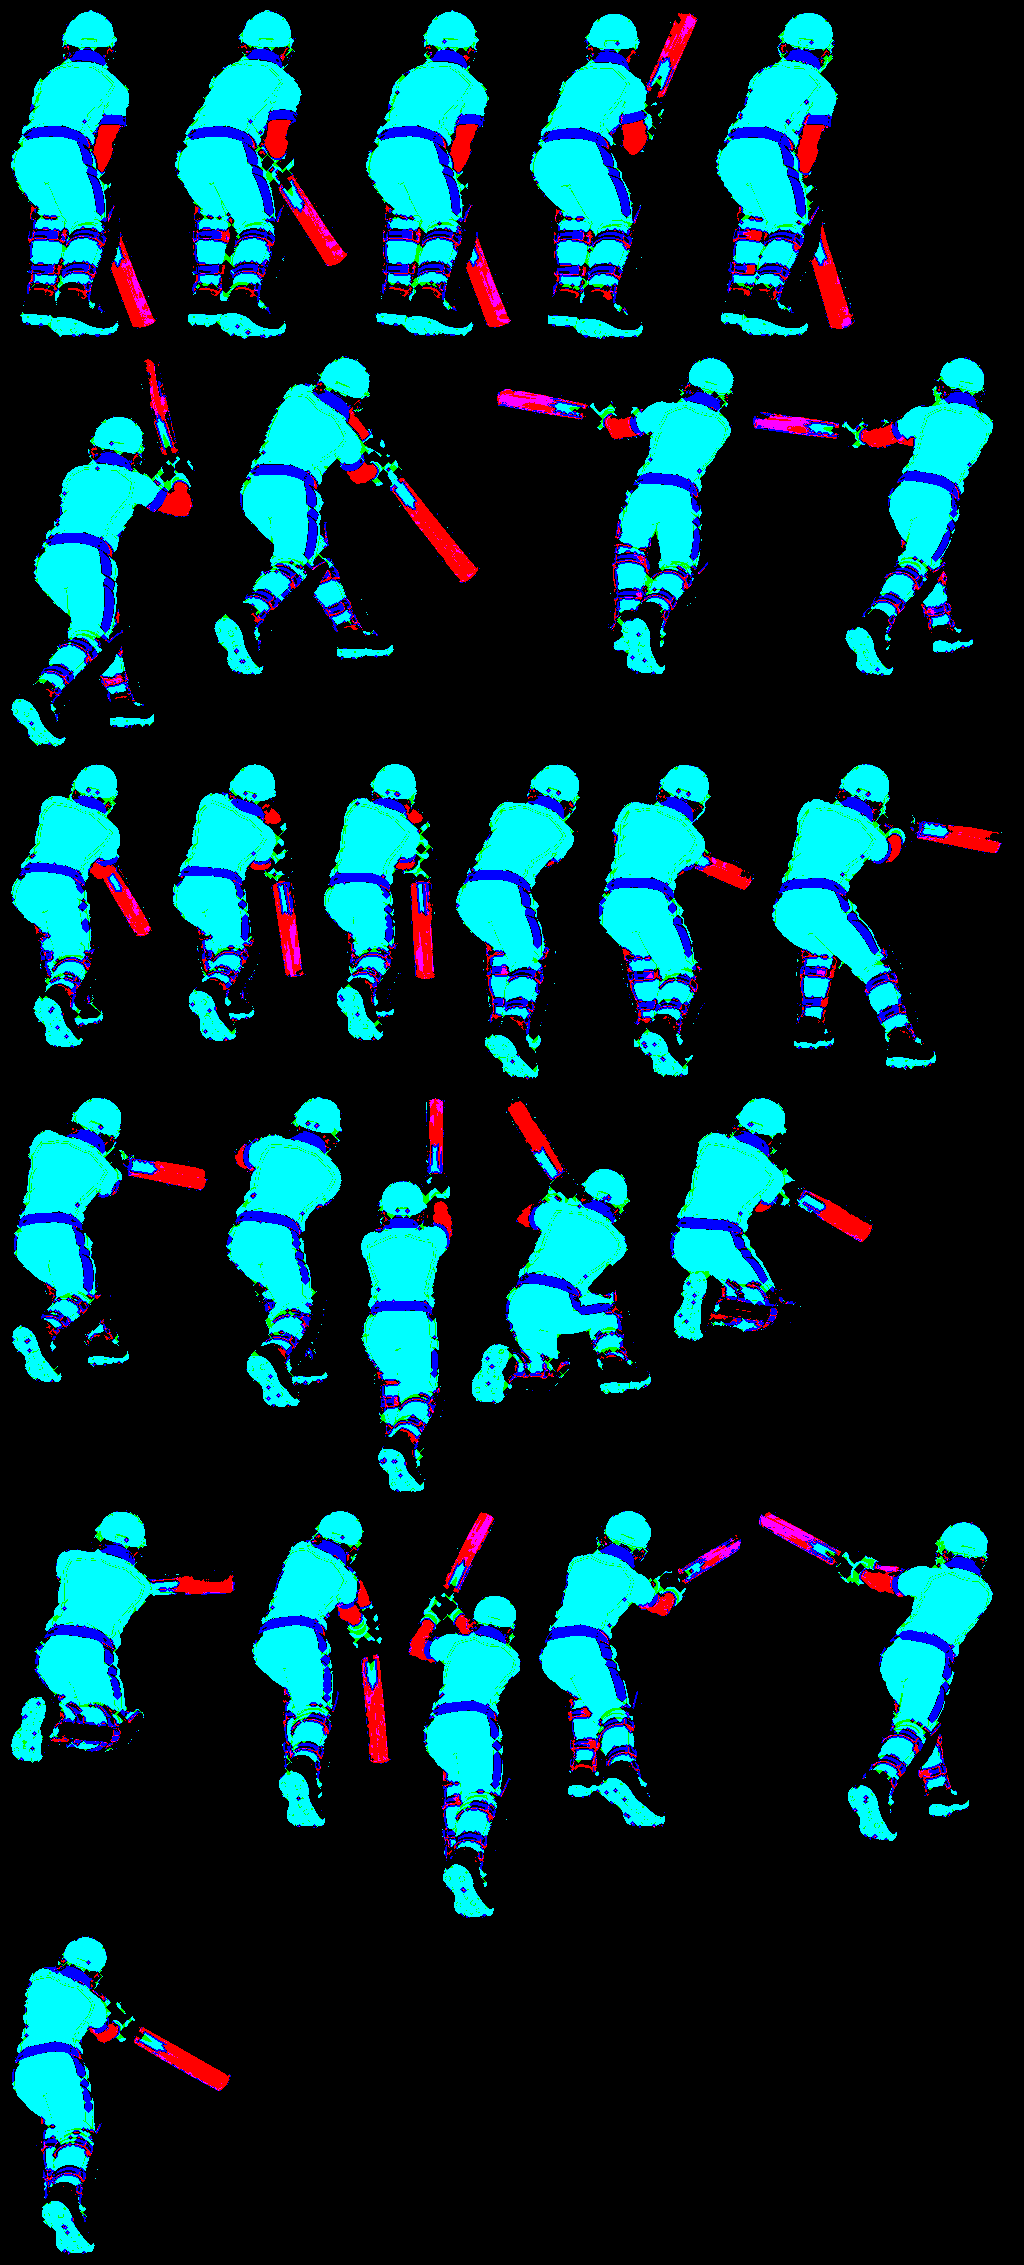
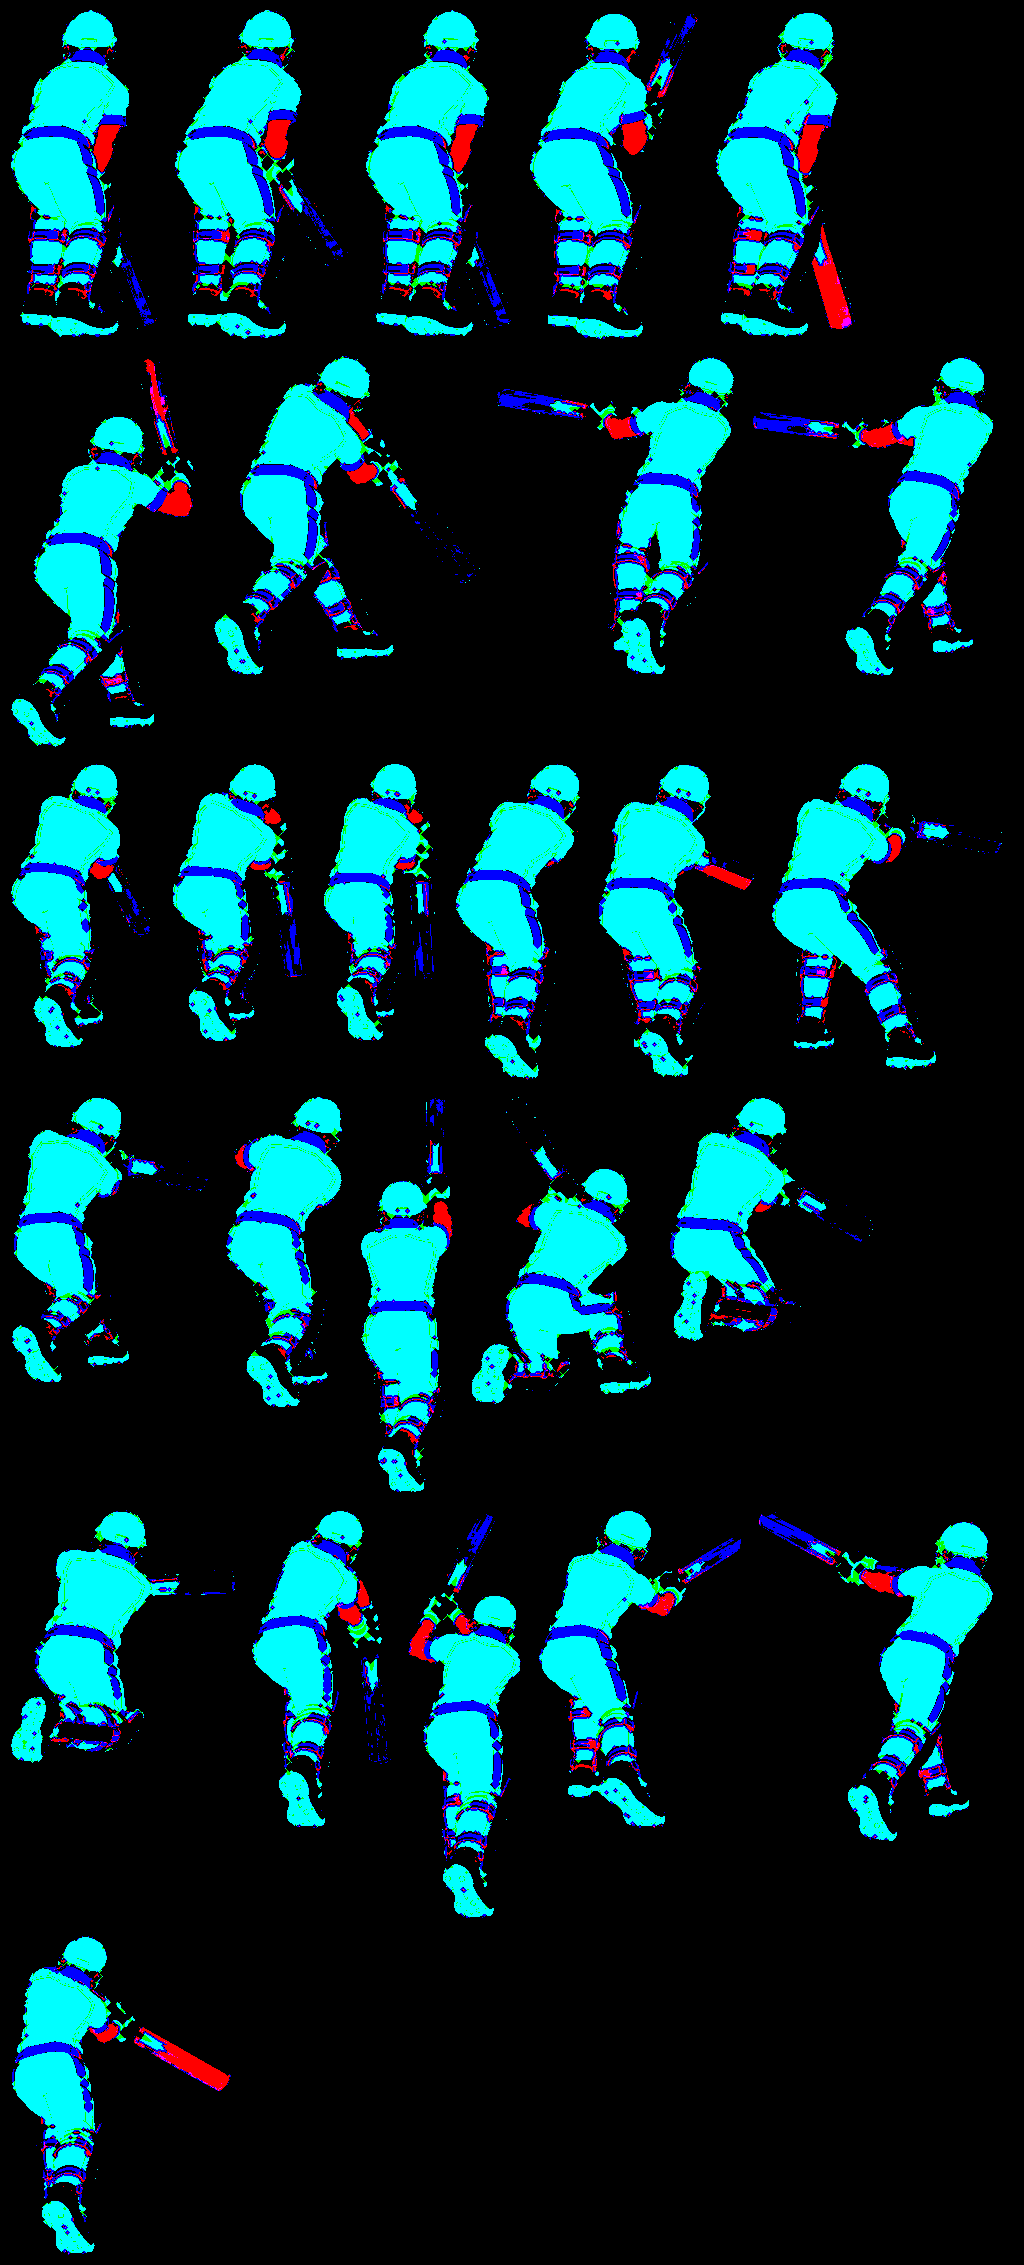
Batter kit: clean panels like the bowler's, the bat kept as wood (not skin), name and number centred on the back panel at the bowler's proportions
Claude-Session: https://claude.ai/code/session_01NK7tbrKg5PdA6fuyEUPXLd

diff --git a/js/kitsheets.js b/js/kitsheets.js
@@ -2,4 +2,4 @@
 // [x, y, w, h, feet x, feet y] in sheet order; place: the crest (front: [x, y, size, squash x,
 // squash y, tilt]) or the name-and-number print (back: [x, y, width, squash x, squash y, tilt,
 // name dx, dy, number dx, dy]) per frame; shading references for the repaint.
-export const KIT_SHEETS = {"front":{"frames":[[4,4,227,609,115.7,602],[235,4,204,603,108.5,596],[443,4,232,595,100.6,588],[679,4,181,601,90.4,594],[4,617,184,670,98.7,663],[192,617,204,657,107.8,650],[400,617,234,531,161.4,524],[638,617,200,532,104.9,525],[4,1291,201,557,90.7,550],[209,1291,216,579,105.9,572]],"place":[[153,167,36,1,1,0],[377,154,35,1,1,0],[591,154,35,1,1,0],[795,159,32,0.9,1,0],[142,863,31,0.95,1,5],[363,868,31,0.95,1,5],[549,761,34,1,0.85,0],[754,762,31,0.95,0.85,-5],[148,1439,35,1,1,0],[359,1454,36,1,1,0]],"refPx":580,"suit":[0.0376,0.2954,0.587],"trim":[0.5314,0.8456,0.9029],"skin":0.7306,"tones":[0.2955,0.2955,0.8423],"hair":{"beard_full":0.2269,"beard_goatee":0.1998,"beard_long":0.1906,"bun":0.2773,"buzz":0.2963,"cap":0.2815,"curly":0.2799,"dreads":0.2727,"long":0.2593,"messy":0.2999,"part":0.3383,"ponytail":0.2813,"spiky":0.2762},"size":[1024,1874]},"back":{"frames":[[4,4,223,593,111.2,586],[231,4,203,585,111.9,578],[438,4,226,585,125.1,578],[668,4,184,572,61.0,565],[4,601,172,628,61.9,621],[180,601,213,636,106.9,629],[397,601,240,538,146.8,531],[641,601,234,534,104.0,527],[4,1241,213,572,115.0,565],[221,1241,215,586,107.6,579]],"place":[[116.6,158.1,88.0,1.0,1.0,0.4,0,0,0,0],[343.2,149.0,88.0,1.0,1.0,0.8,0,0,0,0],[558.0,148.9,88.0,1.0,1.0,0.0,0,0,0,0],[738,149.2,84.5,0.88,1.0,2,-4,0,-2,0],[95.9,814.9,81.0,0.85,0.95,15.1,0,0,0,0],[306.5,801.6,81.0,0.85,0.95,10.9,0,0,0,0],[502,714.2,86.2,1.0,0.75,-6,0,0,0,0],[741,714.7,86.2,1.0,0.75,-6,0,0,0,0],[117.6,1385.2,88.0,1.0,1.0,0.4,0,0,0,0],[331.2,1393.8,89.8,1.0,1.0,0.8,0,0,0,0]],"refPx":563,"suit":[0.032,0.3087,0.5514],"trim":[0.5231,0.8489,0.9123],"skin":0.7332,"tones":[0.3087,0.3087,0.8455],"hair":{"bun":0.2553,"buzz":0.2918,"cap":0.2709,"curly":0.2702,"dreads":0.2718,"long":0.2647,"messy":0.2757,"part":0.2824,"ponytail":0.2667,"spiky":0.2812},"size":[1024,1831]},"spin-front":{"frames":[[4,4,182,471,90.8,464],[190,4,175,474,103.6,467],[369,4,172,473,91.2,466],[545,4,173,483,87.0,476],[722,4,165,515,62.2,508],[4,523,164,565,80.0,558],[172,523,152,564,71.3,544],[328,523,165,547,53.2,528],[497,523,255,478,85.7,461],[756,523,173,413,62.2,400],[4,1092,264,385,95.9,378],[272,1092,180,405,108.1,398],[456,1092,144,425,76.3,418],[604,1092,179,431,74.7,424],[787,1092,192,438,94.7,431]],"place":[[133,134,26,1,1,0],[324,133,24,1,1,0],[503,130,24,1,1,0],[663,127,24,1,1,0],[848,180,24,1,1,0],[145,711,22,0.9,1,0],[268,717,21,0.9,1,0],[456,715,21,0.9,1,0],[646,705,20,0.9,0.9,10],[872,632,20,0.9,0.85,0],[118,1191,19,0.9,0.85,0],[368,1192,21,1,0.9,0],[524,1199,22,1,0.95,0],[728,1206,26,1,1,0],[918,1204,26,1,1,0]],"refPx":441,"suit":[0.0299,0.3355,0.4715],"trim":[0.548,0.8593,0.9122],"skin":0.7273,"tones":[0.341,0.154,0.8608],"hair":{"beard_full":0.1972,"beard_goatee":0.2001,"beard_long":0.2064,"bun":0.2433,"buzz":0.241,"cap":0.2898,"curly":0.2653,"dreads":0.2535,"long":0.2468,"messy":0.2721,"part":0.2843,"ponytail":0.2781,"spiky":0.2609},"size":[1024,1534]},"spin-back":{"frames":[[4,4,205,533,100.3,526],[213,4,201,526,110.7,519],[418,4,214,510,122.2,503],[636,4,168,520,54.4,513],[808,4,157,568,64.3,561],[4,576,174,536,56.4,529],[182,576,168,528,67.2,521],[354,576,165,520,59.7,498],[523,576,204,489,64.8,467],[731,576,195,427,99.9,420],[4,1116,270,378,98.4,371],[278,1116,189,392,97.5,385],[471,1116,207,396,98.1,389],[682,1116,185,397,98.2,390],[4,1517,193,401,95.6,394]],"place":[[110,150,72.0,1,1,0,0,0,0,0],[326,138,72.0,1,1,0,0,0,0,0],[539,138,72.0,0.95,1,0,0,0,0,0],[711,141,72.0,0.95,1,11,0,0,0,0],[894,208,72.0,0.95,1,5,0,0,0,0],[100,760,72.0,0.95,1,10,0,0,0,0],[266,753,72.0,0.95,1,10,0,0,0,0],[451,742,72.0,0.95,0.95,18,0,0,0,0],[637,718,72.0,0.95,0.8,20,0,0,0,0],[853,677,72.0,0.95,0.8,12,0,0,0,0],[115,1188,72.0,1,0.7,-6,0,0,0,0],[362,1201,72.0,1,0.75,-10,0,0,0,0],[558,1210,72.0,1,0.85,-6,0,0,0,0],[773,1218,72.0,1,1,0,0,0,0,0],[104,1643,72.0,1,1,0,0,0,0,0]],"refPx":502,"suit":[0.0255,0.3304,0.4621],"trim":[0.5425,0.8472,0.9129],"skin":0.735,"tones":[0.3359,0.1507,0.8497],"hair":{"bun":0.2768,"buzz":0.2522,"cap":0.3009,"curly":0.2524,"dreads":0.3474,"long":0.2919,"messy":0.2526,"part":0.2321,"ponytail":0.2864,"spiky":0.2346},"size":[1024,1922]},"bat-back":{"frames":[[4,4,160,340,81.7,333],[168,4,187,341,73.3,334],[359,4,160,340,81.7,333],[523,4,182,342,75.4,335],[709,4,153,340,73.3,333],[4,350,199,403,66.6,396],[207,350,279,332,80.6,325],[490,350,252,332,154.4,325],[746,350,254,333,132.3,326],[4,757,157,297,59.1,290],[165,757,148,292,53.1,285],[317,757,128,291,48.3,284],[449,757,138,329,69.7,322],[591,757,170,327,78.0,320],[765,757,244,319,131.4,312],[4,1090,211,300,52.1,293],[219,1090,131,325,61.7,318],[354,1090,106,409,49.5,402],[464,1090,194,321,77.0,314],[662,1090,218,257,61.1,250],[4,1503,238,267,53.9,260],[246,1503,152,332,59.5,325],[402,1503,127,422,69.6,415],[533,1503,215,332,108.5,325],[752,1503,248,345,128.2,338],[4,1929,233,332,69.8,325]],"place":[[79.0,87,47.0,1,1,0,0,0,0,0],[253.0,87,45.5,1,1,0,0,0,0,0],[437.0,87,47.0,1,1,0,0,0,0,0],[603.0,90,50.0,1,1,0,0,0,0,0],[789.0,88,43.5,1,1,0,0,0,0,0],[113.0,481,50.0,1,1,0,0,0,0,0],[308.5,426,50.0,1,1,0,0,0,0,0],[687.0,434,50.0,1,1,0,0,0,0,0],[939.0,433,50.0,1,1,0,0,0,0,0],[76.0,830,41.5,1,1,0,0,0,0,0],[233.0,832,47.0,1,1,0,0,0,0,0],[380.0,836,43.5,1,1,0,0,0,0,0],[530.0,833,42.0,1,1,0,0,0,0,0],[660.0,840,45.0,1,1,0,0,0,0,0],[847.0,838,50.0,1,1,0,0,0,0,0],[79.0,1173,50.0,1,1,0,0,0,0,0],[296.0,1173,44.5,1,1,0,0,0,0,0],[412.0,1230,43.5,1,1,0,0,0,0,0],[562.0,1210,45.5,1,1,0,0,0,0,0],[739.0,1176,50.0,1,1,0,0,0,0,0],[112.0,1587,50.0,1,1,0,0,0,0,0],[315.0,1581,40.0,1,1,0,0,0,0,0],[463.0,1640,50.0,1,1,0,0,0,0,0],[610.0,1586,50.0,1,1,0,0,0,0,0],[948.0,1593,47.0,1,1,0,0,0,0,0],[65.0,2006,50.0,1,1,0,0,0,0,0]],"refPx":328,"suit":[0.0416,0.3529,0.6141],"trim":[0.4749,0.8562,0.9238],"skin":0.7524,"tones":[0.3625,0.1438,0.8651],"hair":{},"size":[1024,2265]}};
+export const KIT_SHEETS = {"front":{"frames":[[4,4,227,609,115.7,602],[235,4,204,603,108.5,596],[443,4,232,595,100.6,588],[679,4,181,601,90.4,594],[4,617,184,670,98.7,663],[192,617,204,657,107.8,650],[400,617,234,531,161.4,524],[638,617,200,532,104.9,525],[4,1291,201,557,90.7,550],[209,1291,216,579,105.9,572]],"place":[[153,167,36,1,1,0],[377,154,35,1,1,0],[591,154,35,1,1,0],[795,159,32,0.9,1,0],[142,863,31,0.95,1,5],[363,868,31,0.95,1,5],[549,761,34,1,0.85,0],[754,762,31,0.95,0.85,-5],[148,1439,35,1,1,0],[359,1454,36,1,1,0]],"refPx":580,"suit":[0.0376,0.2954,0.587],"trim":[0.5314,0.8456,0.9029],"skin":0.7306,"tones":[0.2955,0.2955,0.8423],"hair":{"beard_full":0.2269,"beard_goatee":0.1998,"beard_long":0.1906,"bun":0.2773,"buzz":0.2963,"cap":0.2815,"curly":0.2799,"dreads":0.2727,"long":0.2593,"messy":0.2999,"part":0.3383,"ponytail":0.2813,"spiky":0.2762},"size":[1024,1874]},"back":{"frames":[[4,4,223,593,111.2,586],[231,4,203,585,111.9,578],[438,4,226,585,125.1,578],[668,4,184,572,61.0,565],[4,601,172,628,61.9,621],[180,601,213,636,106.9,629],[397,601,240,538,146.8,531],[641,601,234,534,104.0,527],[4,1241,213,572,115.0,565],[221,1241,215,586,107.6,579]],"place":[[116.6,158.1,88.0,1.0,1.0,0.4,0,0,0,0],[343.2,149.0,88.0,1.0,1.0,0.8,0,0,0,0],[558.0,148.9,88.0,1.0,1.0,0.0,0,0,0,0],[738,149.2,84.5,0.88,1.0,2,-4,0,-2,0],[95.9,814.9,81.0,0.85,0.95,15.1,0,0,0,0],[306.5,801.6,81.0,0.85,0.95,10.9,0,0,0,0],[502,714.2,86.2,1.0,0.75,-6,0,0,0,0],[741,714.7,86.2,1.0,0.75,-6,0,0,0,0],[117.6,1385.2,88.0,1.0,1.0,0.4,0,0,0,0],[331.2,1393.8,89.8,1.0,1.0,0.8,0,0,0,0]],"refPx":563,"suit":[0.032,0.3087,0.5514],"trim":[0.5231,0.8489,0.9123],"skin":0.7332,"tones":[0.3087,0.3087,0.8455],"hair":{"bun":0.2553,"buzz":0.2918,"cap":0.2709,"curly":0.2702,"dreads":0.2718,"long":0.2647,"messy":0.2757,"part":0.2824,"ponytail":0.2667,"spiky":0.2812},"size":[1024,1831]},"spin-front":{"frames":[[4,4,182,471,90.8,464],[190,4,175,474,103.6,467],[369,4,172,473,91.2,466],[545,4,173,483,87.0,476],[722,4,165,515,62.2,508],[4,523,164,565,80.0,558],[172,523,152,564,71.3,544],[328,523,165,547,53.2,528],[497,523,255,478,85.7,461],[756,523,173,413,62.2,400],[4,1092,264,385,95.9,378],[272,1092,180,405,108.1,398],[456,1092,144,425,76.3,418],[604,1092,179,431,74.7,424],[787,1092,192,438,94.7,431]],"place":[[133,134,26,1,1,0],[324,133,24,1,1,0],[503,130,24,1,1,0],[663,127,24,1,1,0],[848,180,24,1,1,0],[145,711,22,0.9,1,0],[268,717,21,0.9,1,0],[456,715,21,0.9,1,0],[646,705,20,0.9,0.9,10],[872,632,20,0.9,0.85,0],[118,1191,19,0.9,0.85,0],[368,1192,21,1,0.9,0],[524,1199,22,1,0.95,0],[728,1206,26,1,1,0],[918,1204,26,1,1,0]],"refPx":441,"suit":[0.0299,0.3355,0.4715],"trim":[0.548,0.8593,0.9122],"skin":0.7273,"tones":[0.341,0.154,0.8608],"hair":{"beard_full":0.1972,"beard_goatee":0.2001,"beard_long":0.2064,"bun":0.2433,"buzz":0.241,"cap":0.2898,"curly":0.2653,"dreads":0.2535,"long":0.2468,"messy":0.2721,"part":0.2843,"ponytail":0.2781,"spiky":0.2609},"size":[1024,1534]},"spin-back":{"frames":[[4,4,205,533,100.3,526],[213,4,201,526,110.7,519],[418,4,214,510,122.2,503],[636,4,168,520,54.4,513],[808,4,157,568,64.3,561],[4,576,174,536,56.4,529],[182,576,168,528,67.2,521],[354,576,165,520,59.7,498],[523,576,204,489,64.8,467],[731,576,195,427,99.9,420],[4,1116,270,378,98.4,371],[278,1116,189,392,97.5,385],[471,1116,207,396,98.1,389],[682,1116,185,397,98.2,390],[4,1517,193,401,95.6,394]],"place":[[110,150,72.0,1,1,0,0,0,0,0],[326,138,72.0,1,1,0,0,0,0,0],[539,138,72.0,0.95,1,0,0,0,0,0],[711,141,72.0,0.95,1,11,0,0,0,0],[894,208,72.0,0.95,1,5,0,0,0,0],[100,760,72.0,0.95,1,10,0,0,0,0],[266,753,72.0,0.95,1,10,0,0,0,0],[451,742,72.0,0.95,0.95,18,0,0,0,0],[637,718,72.0,0.95,0.8,20,0,0,0,0],[853,677,72.0,0.95,0.8,12,0,0,0,0],[115,1188,72.0,1,0.7,-6,0,0,0,0],[362,1201,72.0,1,0.75,-10,0,0,0,0],[558,1210,72.0,1,0.85,-6,0,0,0,0],[773,1218,72.0,1,1,0,0,0,0,0],[104,1643,72.0,1,1,0,0,0,0,0]],"refPx":502,"suit":[0.0255,0.3304,0.4621],"trim":[0.5425,0.8472,0.9129],"skin":0.735,"tones":[0.3359,0.1507,0.8497],"hair":{"bun":0.2768,"buzz":0.2522,"cap":0.3009,"curly":0.2524,"dreads":0.3474,"long":0.2919,"messy":0.2526,"part":0.2321,"ponytail":0.2864,"spiky":0.2346},"size":[1024,1922]},"bat-back":{"frames":[[4,4,160,340,81.7,333],[168,4,187,341,73.3,334],[359,4,160,340,81.7,333],[523,4,182,342,75.4,335],[709,4,153,340,73.3,333],[4,350,199,403,66.6,396],[207,350,279,332,80.6,325],[490,350,252,332,154.4,325],[746,350,254,333,132.3,326],[4,757,157,297,59.1,290],[165,757,148,292,53.1,285],[317,757,128,291,48.3,284],[449,757,138,329,69.7,322],[591,757,170,327,78.0,320],[765,757,244,319,131.4,312],[4,1090,211,300,52.1,293],[219,1090,131,325,61.7,318],[354,1090,106,409,49.5,402],[464,1090,194,321,77.0,314],[662,1090,218,257,61.1,250],[4,1503,238,267,53.9,260],[246,1503,152,332,59.5,325],[402,1503,127,422,69.6,415],[533,1503,215,332,108.5,325],[752,1503,248,345,128.2,338],[4,1929,233,332,69.8,325]],"place":[[73.0,95,42.2,1,1,0,0,0,0,0],[240.0,93,44.0,1,1,0,0,0,0,0],[429.5,95,42.2,1,1,0,0,0,0,0],[589.5,96,42.8,1,1,0,0,0,0,0],[780.0,94,42.8,1,1,0,0,0,0,0],[96.0,499,44.6,1,1,0,0,0,0,0],[305.0,427,45.9,1,1,0,0,0,0,0],[690.0,439,45.9,1,1,0,0,0,0,0],[953.0,438,44.0,1,1,0,0,0,0,0],[74.5,832,40.9,1,1,0,0,0,0,0],[229.5,832,44.0,1,1,0,0,0,0,0],[375.5,837,46.5,1,1,0,0,0,0,0],[525.0,836,41.5,1,1,0,0,0,0,0],[658.0,841,47.1,1,1,0,0,0,0,0],[834.5,841,45.9,1,1,0,0,0,0,0],[68.0,1174,47.1,1,1,0,0,0,0,0],[295.0,1177,45.3,1,1,0,0,0,0,0],[401.0,1267,44.6,1,1,0,0,0,0,0],[581.0,1241,41.5,1,1,0,0,0,0,0],[733.0,1178,49.6,1,1,0,0,0,0,0],[104.0,1590,45.3,1,1,0,0,0,0,0],[310.0,1581,45.9,1,1,0,0,0,0,0],[479.5,1668,42.8,1,1,0,0,0,0,0],[597.0,1589,45.9,1,1,0,0,0,0,0],[954.0,1600,39.7,1,1,0,0,0,0,0],[58.5,2007,44.0,1,1,0,0,0,0,0]],"refPx":328,"suit":[0.0416,0.3529,0.6141],"trim":[0.4749,0.8562,0.9238],"skin":0.6371,"tones":[0.3575,0.2091,0.8592],"hair":{},"size":[1024,2265]}};

diff --git a/tools/build_kit_sheets.py b/tools/build_kit_sheets.py
@@ -39,12 +39,20 @@ def hsv(a):
     return h[..., 0] * 360, h[..., 1], h[..., 2]
 
 
-def masks(a):
+def masks(a, bat=False):
     H, S, V = hsv(a[..., :3])
     op = a[..., 3] > 0.3
     suit = op & (H > 195) & (H < 255) & (S > 0.3)
     trim = op & (H > 40) & (H < 70) & (S > 0.5) & (V > 0.45)
     skin = op & (H > 5) & (H < 40) & (S > 0.2) & (V > 0.3) & ~trim
+    if bat:
+        # the batter's willow is drawn close to his skin: paler and yellower (hue 34-41, saturation
+        # under 0.55; skin is 24-32, 0.6-0.85). Each tan patch goes the way most of it reads.
+        wood = skin & (H >= 33.5) & (S < 0.57)
+        lab, n = ndi.label(skin)
+        if n:
+            frac = ndi.mean(wood, lab, range(1, n + 1))
+            skin = skin & ~np.isin(lab, 1 + np.nonzero(frac > 0.5)[0])
     skin = ndi.binary_fill_holes(ndi.binary_closing(skin, iterations=1)) & op & ~trim & ~suit
     return suit, trim, skin
 
@@ -160,7 +168,7 @@ def rework_yoke(a, kit, w, Ls, ref, marks, off, pipe=3.2):
     return w, Ls, kit
 
 
-def tones(a, design=None, off=0, marks=None):
+def tones(a, design=None, off=0, marks=None, hard=False):
     """soft class weights (navy, yellow; main = the rest) and lightly smoothed brightness. A sheet
     drawn in the premium kit is read as drawn; a plain one gets the design painted on (design)."""
     H, S, V = hsv(a[..., :3])
@@ -186,8 +194,18 @@ def tones(a, design=None, off=0, marks=None):
         Ls = np.where(conv, Ls0 * rm / ry, Ls)
         return kit, w, Ls, [round(rm, 4), round(rm, 4), round(ry, 4)]
     navy = np.clip((72 / 255 - ndi.gaussian_filter(L, 1.2)) / (20 / 255), 0, 1)
+    if hard:
+        # clean panels like the bowler's painted ones: each pixel is the main colour, navy or yellow,
+        # decided once (shadows in the blue cloth stay blue), with only a pixel of blend at the edges
+        nv = kit & ndi.binary_opening(ndi.gaussian_filter(L, 2.0) < 62 / 255, iterations=2)
+        nv = ndi.binary_closing(nv, iterations=2) & kit
+        lab, n = ndi.label(nv)
+        if n:
+            nv = np.isin(lab, 1 + np.nonzero(ndi.sum(nv, lab, range(1, n + 1)) >= 120)[0])
+        yl = kit & ndi.binary_closing(yel > 0.45, iterations=1)
+        navy, yel = nv.astype(float) * ~yl, yl.astype(float)
     w = np.stack([(1 - yel) * (1 - navy), (1 - yel) * navy, yel], -1)
-    w = ndi.gaussian_filter(w, (0.8, 0.8, 0))
+    w = ndi.gaussian_filter(w, (0.8, 0.8, 0) if not hard else (0.6, 0.6, 0))
     w /= w.sum(-1, keepdims=True) + 1e-6
     ref = [round(float(np.median(L[kit & (w[..., k] > 0.8)])), 4) for k in range(3)]
     if marks:
@@ -236,16 +254,16 @@ def frames_of(a, count=10, rowh=600):
     return lab, [(i + 1, boxes[i]) for i in big]
 
 
-def build(view, sheet, hairpaths, place, count=10, rowh=600, premium=False, design=None, marks=None, place_abs=False):
+def build(view, sheet, hairpaths, place, count=10, rowh=600, premium=False, design=None, marks=None, place_abs=False, hard=False):
     # (a margin all round, so a pose at the sheet's edge can still be cut with padding)
     M = 60
     a = np.pad(keyed(sheet) / 255, ((M, M), (M, M), (0, 0)))
     hairs = {st: clean_hair(np.pad(np.array(Image.open(hp).convert('RGBA')).astype(np.float32) / 255, ((M, M), (M, M), (0, 0)))) for st, hp in hairpaths.items()}
     hair_any = np.max([h[..., 3] for h in hairs.values()], axis=0) if hairs else np.zeros(a.shape[:2])
-    suit, trim, skin = masks(a)
+    suit, trim, skin = masks(a, bat=hard)
     L = a[..., :3] @ LUM
     if premium:
-        kit, tw, tL, tref = tones(a, design, M, marks)
+        kit, tw, tL, tref = tones(a, design, M, marks, hard=hard)
     lab, frames = frames_of(a, count, rowh)
     # each pixel belongs to the nearest pose (hair close to two poses goes to its own head only)
     dist, (iy, ix) = ndi.distance_transform_edt(lab == 0, return_indices=True)
@@ -362,7 +380,7 @@ def build_bat():
     pr = json.load(open('tools/kit/bat-back-print.json'))
     n = len(pr['frames'])
     return build('bat-back', 'tools/kit/src/batter-back.png', {}, [pr[str(k + 1)] for k in range(n)], n, pr['rowh'],
-                 premium=True, place_abs=True)
+                 premium=True, place_abs=True, hard=True)
 
 
 def write_sheets(out):

diff --git a/tools/kit/compose_batter.py b/tools/kit/compose_batter.py
@@ -161,27 +161,36 @@ def main():
 
 
 def print_spot(rgb, m, ox, oy):
-    """the name and number on the back: centred on the shirt a third of the way up from the
-    waistband to the top of the helmet, about half the shirt's width there"""
+    """the name and number on the back, laid out as on the bowler's (tools/kit/shirt-print-back.json):
+    centred across the back panel (the blue between the piping), 42% of the way down from the collar
+    to the waistband, 0.62 of that collar-to-waist drop wide"""
     im = Image.fromarray(rgb.astype(np.uint8)).convert('HSV')
     hsv = np.asarray(im).astype(float)
     H, S, V = hsv[..., 0] * 360 / 255, hsv[..., 1] / 255, hsv[..., 2] / 255
     yellow = m & (H > 40) & (H < 70) & (S > 0.5) & (V > 0.5)
     blue = m & (H > 195) & (H < 255) & (S > 0.3)
+    main = blue & (V > 0.62)                  # the panel's blue (the navy sleeves and helmet are darker)
+    top = np.nonzero(blue.any(1))[0].min()
     ys = np.nonzero(m.any(1))[0]
-    top = np.nonzero(blue.any(1))[0].min()   # the helmet's top (a bat held up goes higher)
     rows = yellow.sum(1)
-    upper = rows[: top + int((ys.max() - top) * 0.6)]
-    belt = int(np.argmax(upper))          # the widest band of yellow in the top 60%: the waistband
-    y = int(top + (belt - top) * 0.62)
-    band = blue[max(0, y - 6): y + 6]
-    xs = np.nonzero(band.any(0))[0]
-    if len(xs) < 4:
-        xs = np.nonzero(m[y])[0]
-    cx = float(np.median(np.nonzero(band)[1])) if band.any() else float(xs.mean())
-    # half the shirt's width there, kept to a back's size (an arm across the shirt widens the row)
-    w = float(np.clip((xs.max() - xs.min()) * 0.5, 40, 50))
-    return [round(cx + ox, 1), round(y + oy, 1), round(float(w), 1), 1, 1, 0, 0, 0, 0, 0]
+    belt = top + int(np.argmax(rows[top: top + int((ys.max() - top) * 0.6)]))   # the waistband
+    # the back panel: the biggest patch of the shirt's blue above the waistband
+    up = main.copy(); up[belt:] = False
+    up = ndi.binary_opening(up, iterations=2)
+    lab, n = ndi.label(up)
+    if n:
+        k = 1 + int(np.argmax(ndi.sum(up, lab, range(1, n + 1))))
+        panel = lab == k
+    else:
+        panel = up
+    py, px = np.nonzero(panel)
+    collar, waist = py.min(), belt
+    y = int(collar + 0.42 * (waist - collar))
+    band = panel[max(0, y - 4): y + 5]
+    bx = np.nonzero(band.any(0))[0]
+    cx = (bx.min() + bx.max()) / 2 if len(bx) else float(px.mean())
+    w = 0.62 * (waist - collar)
+    return [round(float(cx) + ox, 1), round(y + oy, 1), round(float(w), 1), 1, 1, 0, 0, 0, 0, 0]
 
 
 if __name__ == '__main__':
